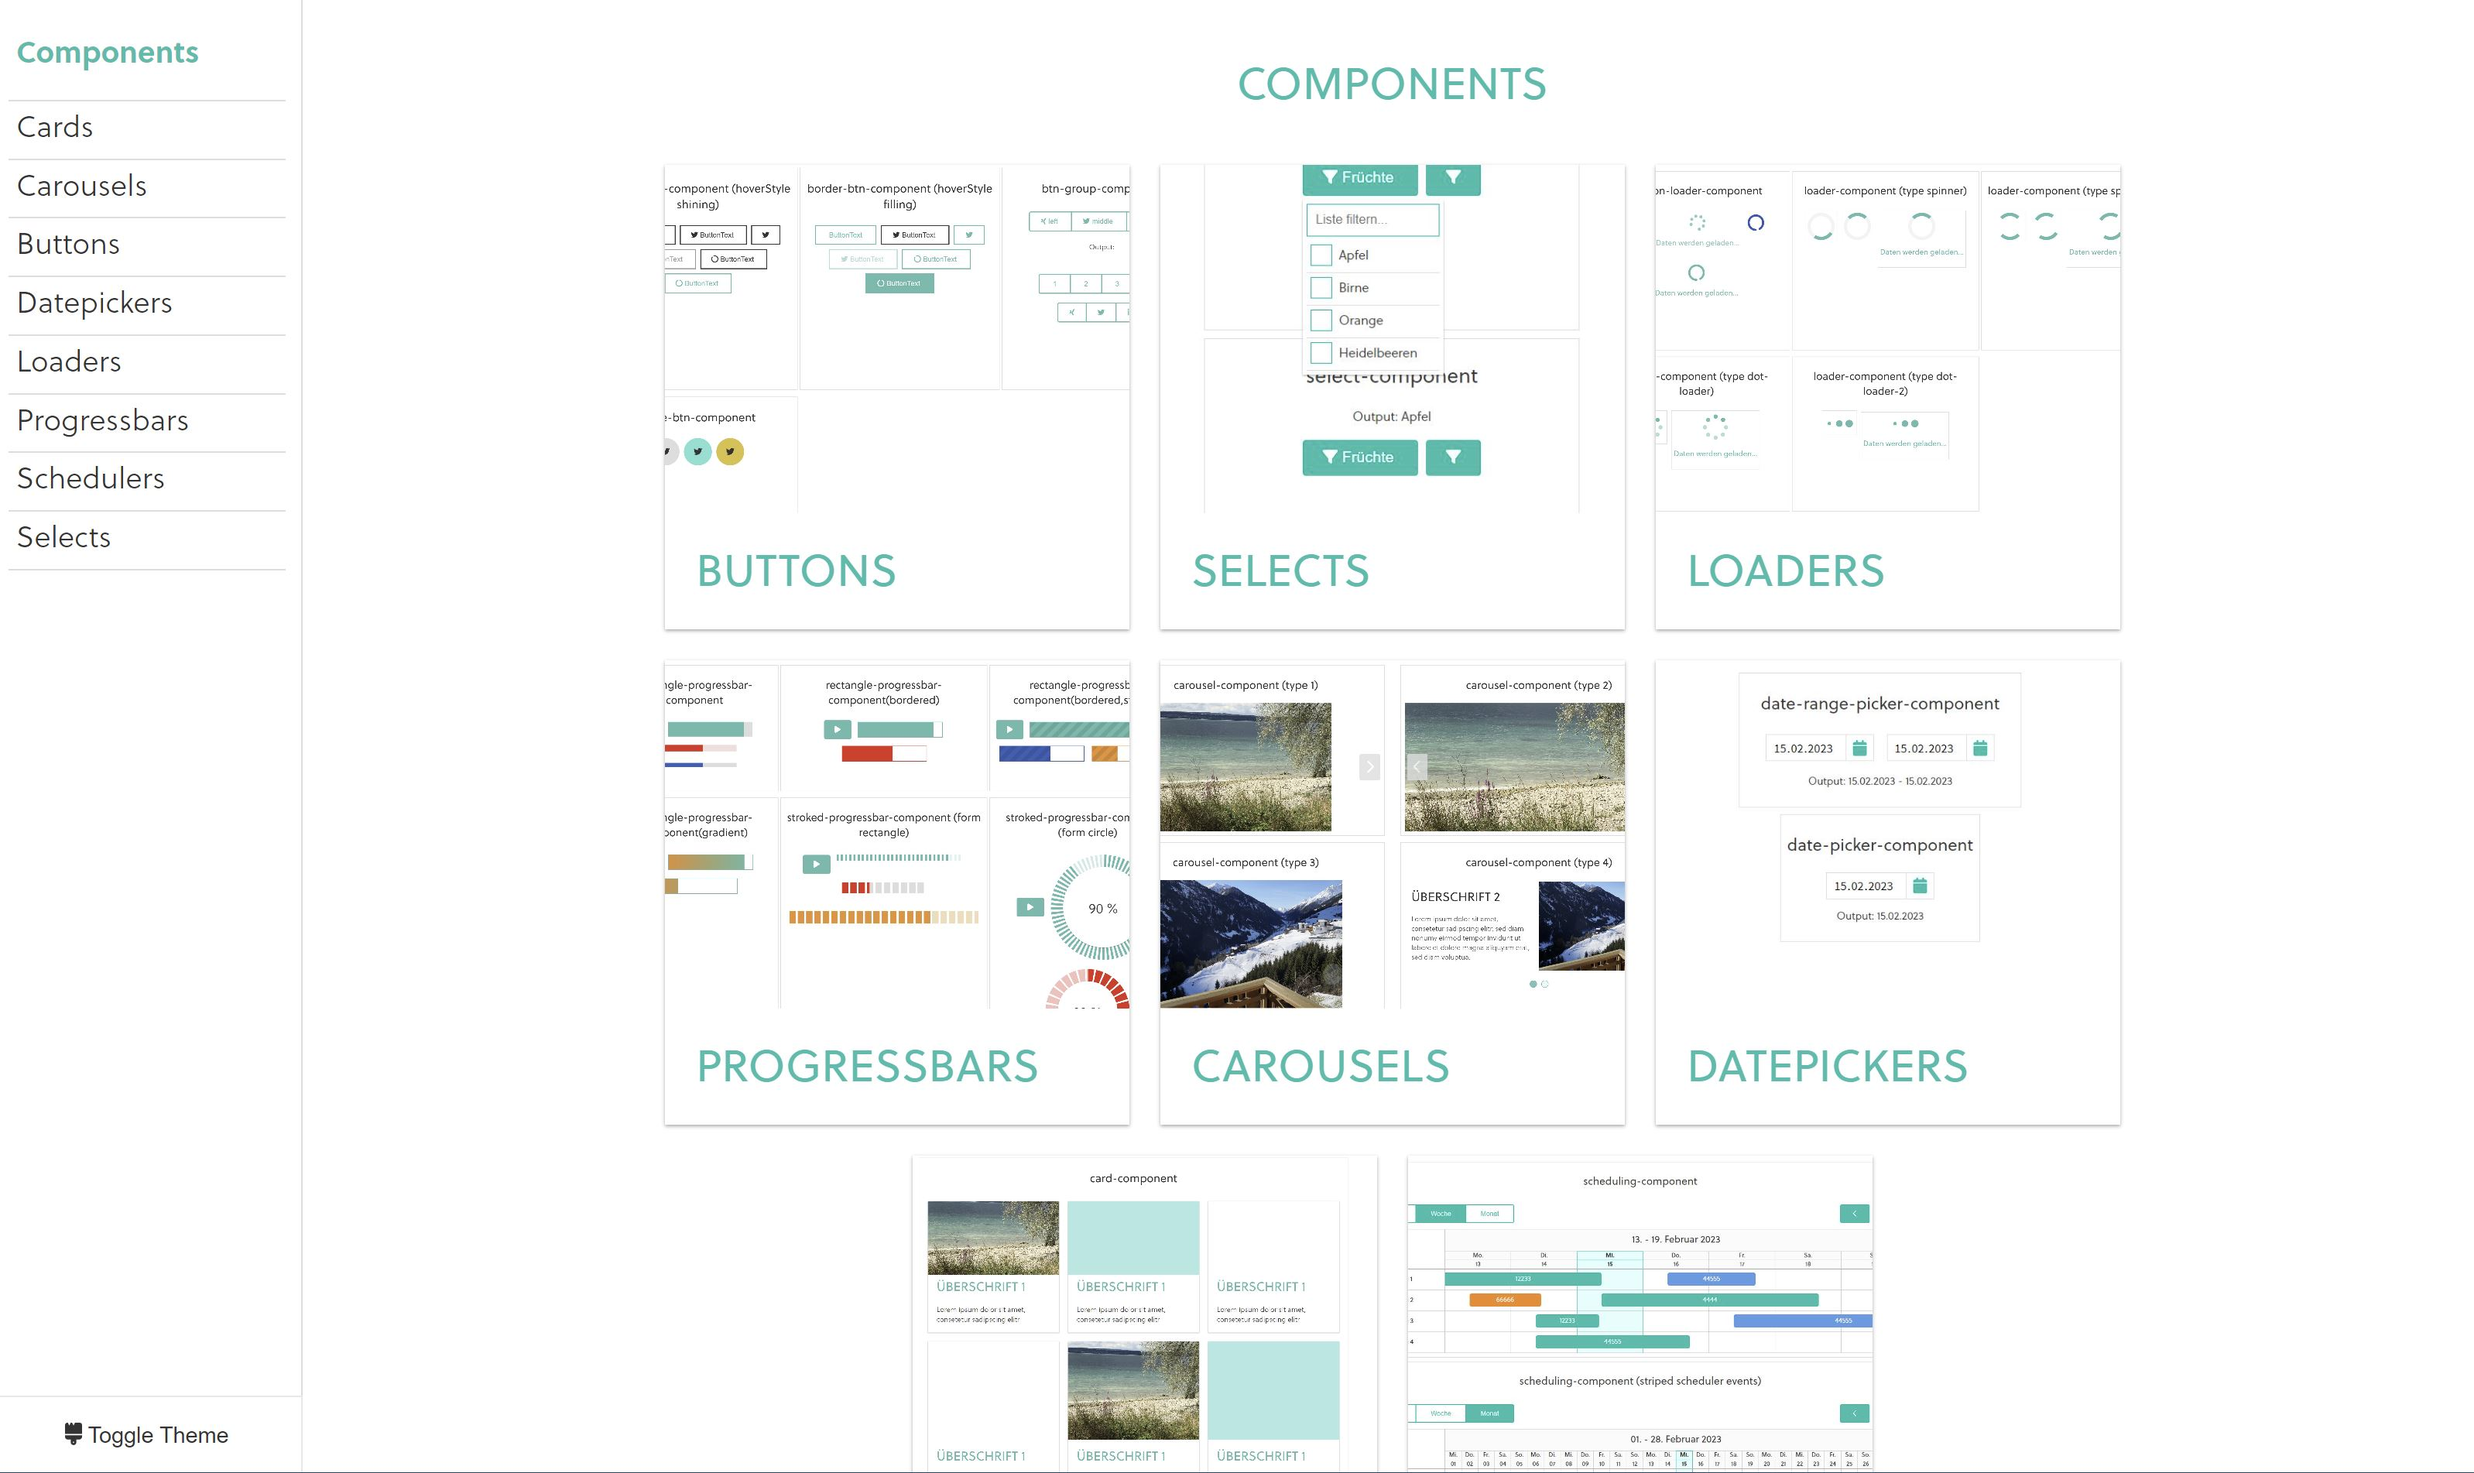
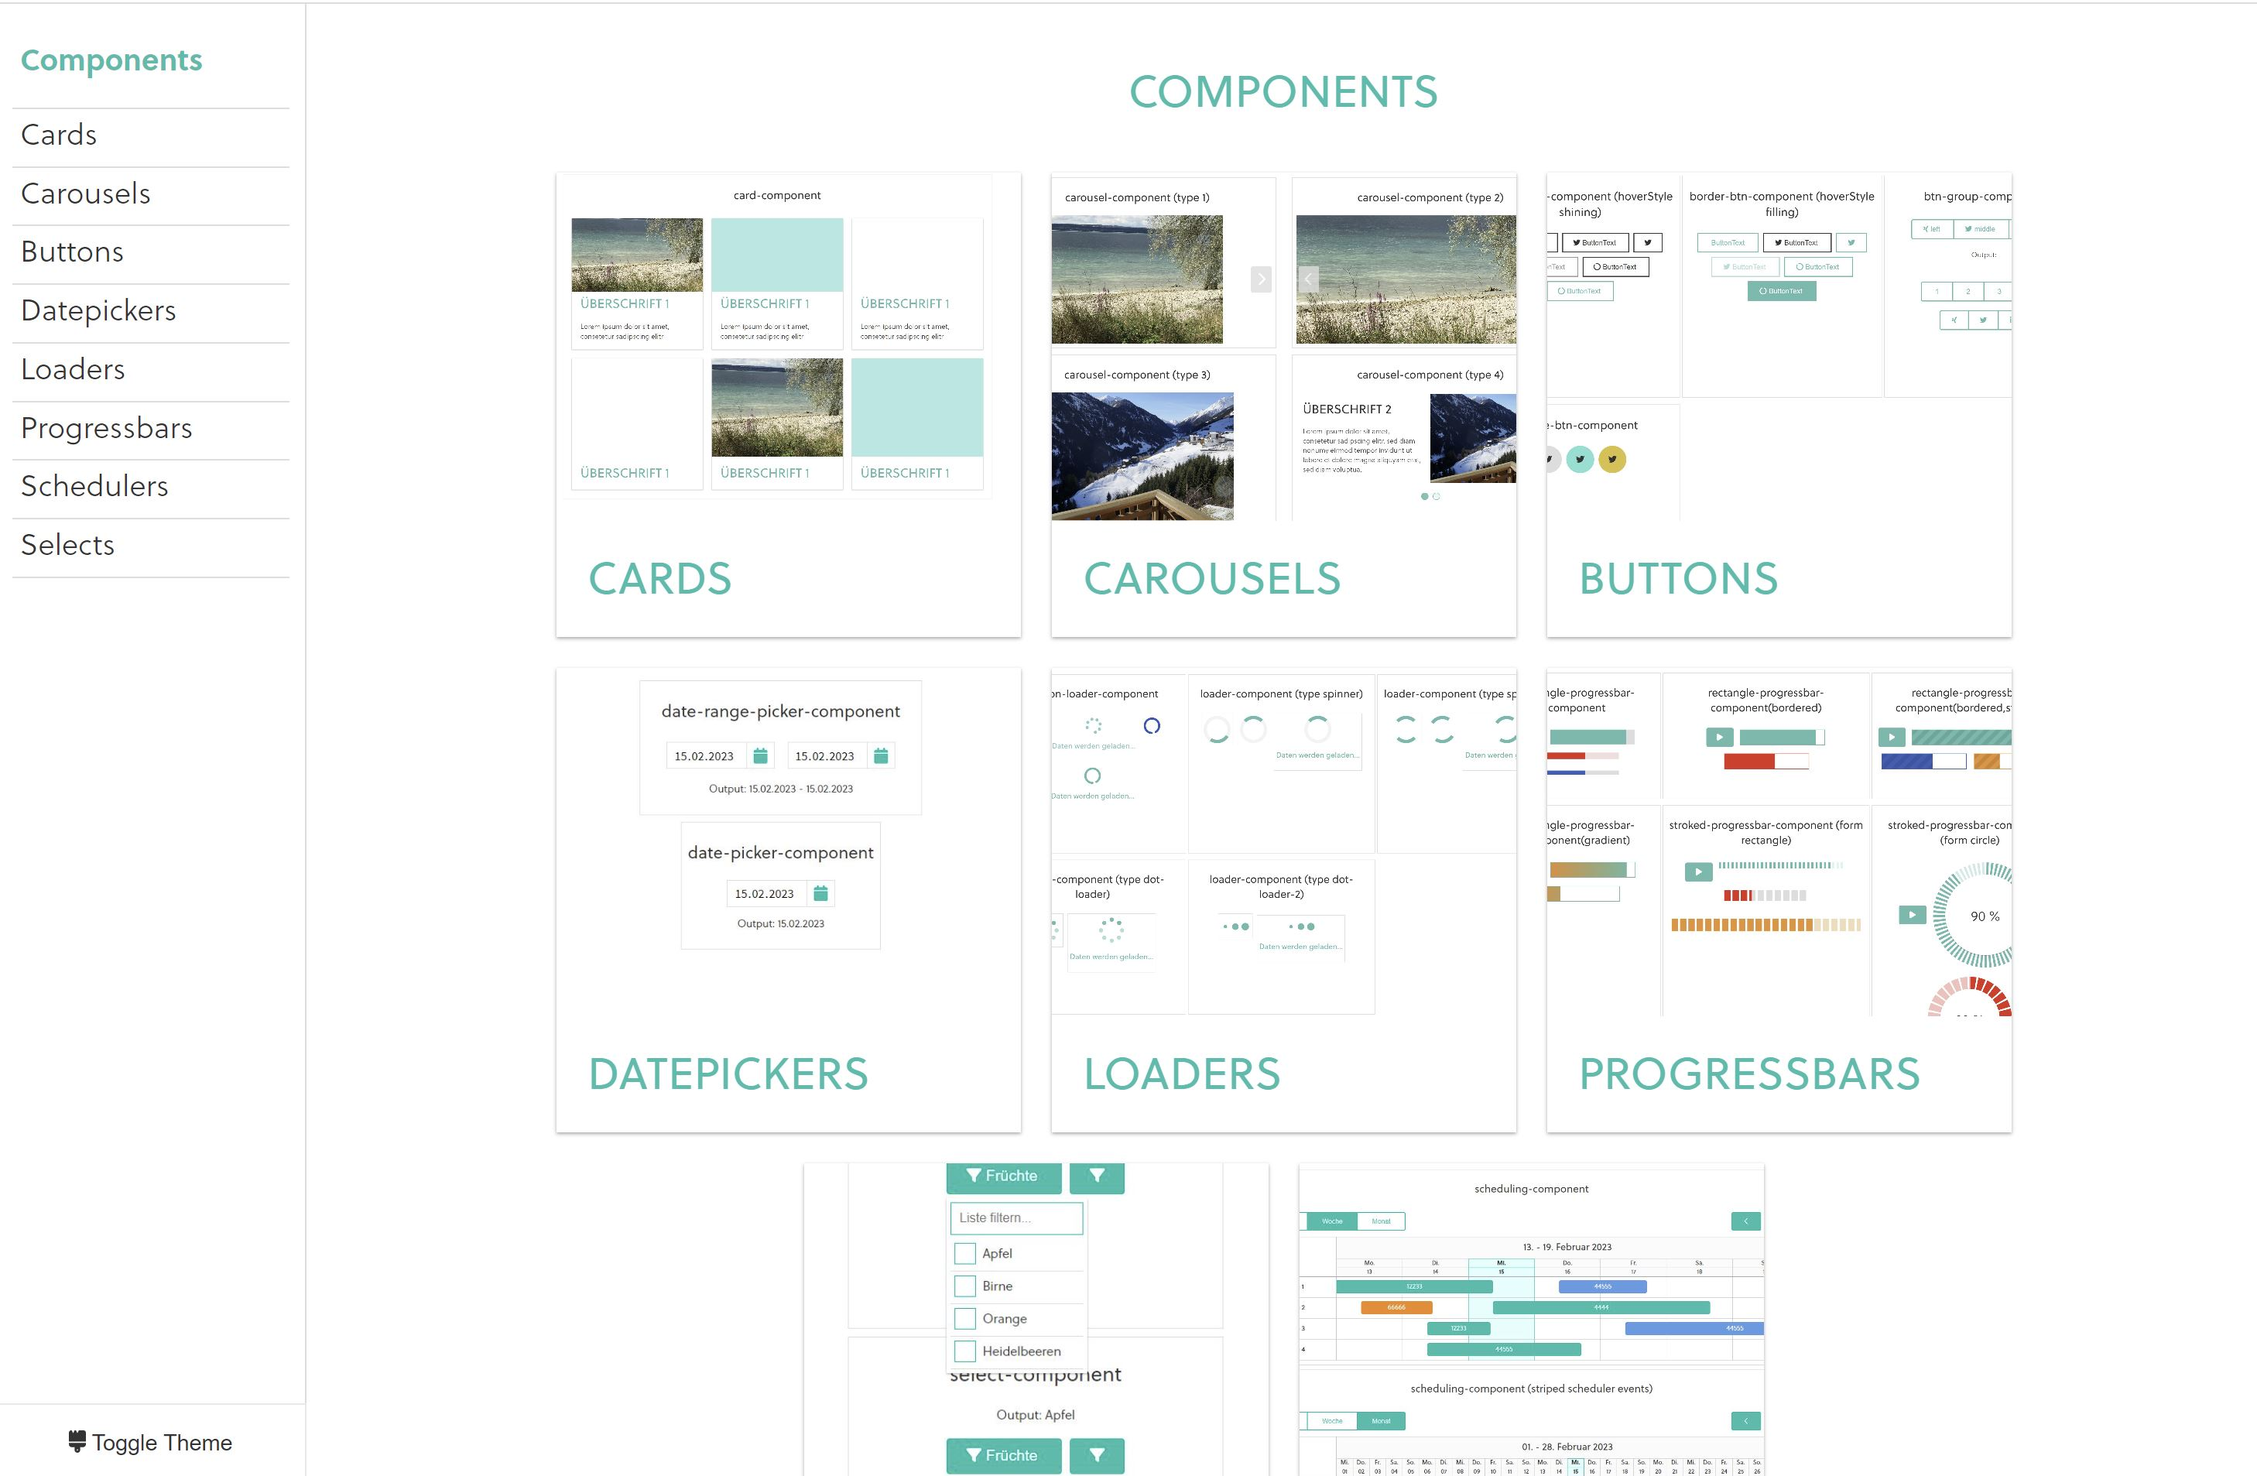
Updated preview routing

diff --git a/src/app/layout/preview/preview.component.html b/src/app/layout/preview/preview.component.html
@@ -4,64 +4,64 @@
 
     <div class="card-container">
         <card-component
-            [routerLink]="'buttons'"
-            [routerLinkActive]="'active'"
-            [imageUrl]="'assets/preview/buttons.JPG'"
-            [title]="'Buttons'">
-        </card-component>
-
-        <card-component
-            [routerLink]="'selects'"
-            [routerLinkActive]="'active'"
-            [imageUrl]="'assets/preview/selects.JPG'"
-            [title]="'selects'">
-        </card-component>
-
-        <card-component
-            [routerLink]="'loaders'"
-            [routerLinkActive]="'active'"
-            [imageUrl]="'assets/preview/loaders.JPG'"
-            [title]="'Loaders'">
-        </card-component>
-       
-    </div>
-   
-    <div class="card-container">
-
-        <card-component
-            [routerLink]="'progressbars'"
-            [routerLinkActive]="'active'"
-            [imageUrl]="'assets/preview/progressbars.JPG'"
-            [title]="'Progressbars'">
-        </card-component>
-
-        <card-component
-            [routerLink]="'carousels'"
-            [routerLinkActive]="'active'"
-            [imageUrl]="'assets/preview/carousels.JPG'"
-            [title]="'Carousels'">
-        </card-component>
-
-        <card-component
-            [routerLink]="'datepickers'"
-            [routerLinkActive]="'active'"
-            [imageUrl]="'assets/preview/datepickers.JPG'"
-            [title]="'Datepickers'">
-        </card-component>
-
-    </div>
-
-    <div class="card-container">
-
-        <card-component
-            [routerLink]="'cards'"
+            [routerLink]="'/cards'"
             [routerLinkActive]="'active'"
             [imageUrl]="'assets/preview/cards.JPG'"
             [title]="'Cards'">
         </card-component>
 
         <card-component
-            [routerLink]="'schedulers'"
+            [routerLink]="'/carousels'"
+            [routerLinkActive]="'active'"
+            [imageUrl]="'assets/preview/carousels.JPG'"
+            [title]="'Carousels'">
+        </card-component>
+
+        <card-component
+            [routerLink]="'/buttons'"
+            [routerLinkActive]="'active'"
+            [imageUrl]="'assets/preview/buttons.JPG'"
+            [title]="'Buttons'">
+        </card-component>
+
+    </div>
+
+    <div class="card-container">
+
+        <card-component
+            [routerLink]="'/datepickers'"
+            [routerLinkActive]="'active'"
+            [imageUrl]="'assets/preview/datepickers.JPG'"
+            [title]="'Datepickers'">
+        </card-component>
+
+        <card-component
+            [routerLink]="'/loaders'"
+            [routerLinkActive]="'active'"
+            [imageUrl]="'assets/preview/loaders.JPG'"
+            [title]="'Loaders'">
+        </card-component>
+
+        <card-component
+            [routerLink]="'/progressbars'"
+            [routerLinkActive]="'active'"
+            [imageUrl]="'assets/preview/progressbars.JPG'"
+            [title]="'Progressbars'">
+        </card-component>
+
+    </div>
+
+    <div class="card-container">
+
+        <card-component
+            [routerLink]="'/selects'"
+            [routerLinkActive]="'active'"
+            [imageUrl]="'assets/preview/selects.JPG'"
+            [title]="'selects'">
+        </card-component>
+
+        <card-component
+            [routerLink]="'/schedulers'"
             [routerLinkActive]="'active'"
             [imageUrl]="'assets/preview/schedulers.JPG'"
             [title]="'Schedulers'">
@@ -75,5 +75,5 @@
         </card-component>-->
 
     </div>
-
+   
 </div>

diff --git a/src/app/app.component.ts b/src/app/app.component.ts
@@ -1,5 +1,4 @@
 import { Component } from '@angular/core';
-import { ActivatedRoute, NavigationEnd, Router } from '@angular/router';
 
 @Component({
   selector: 'app-root',
@@ -10,14 +9,8 @@ export class AppComponent {
 
   isDefaultRoute: boolean = true;
 
-  constructor(private router: Router){ }
+  constructor(){ }
 
-  ngOnInit(){
-    this.router.events.subscribe((event: any) => {
-      if (event instanceof NavigationEnd ) {
-        this.isDefaultRoute = event.url == "/";
-      }
-    });
-  }
+  ngOnInit(){ }
 
 }
